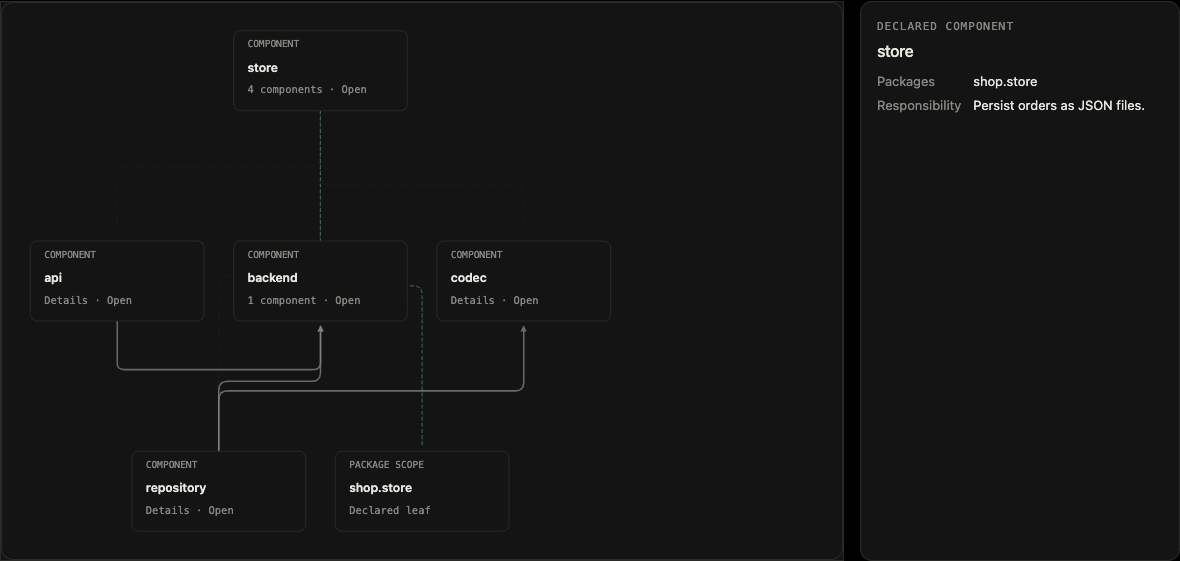
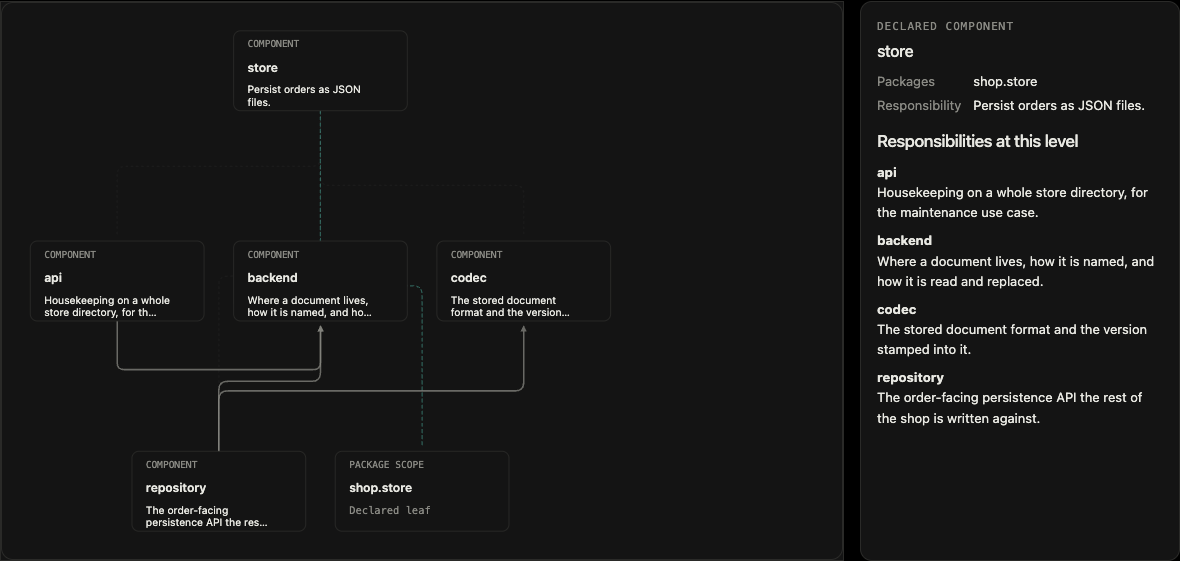
Show target responsibilities on diagram cards

diff --git a/src/archkeel/render/assets/flow.js b/src/archkeel/render/assets/flow.js
@@ -741,9 +741,31 @@
         : allowed
           ? `${allowed} allowed child${allowed === 1 ? "" : "ren"} · Open`
           : children.length ? "Details · Open" : "Declared leaf";
-      group.appendChild(count);
+      const responsibility = targetRecord?.details?.find((detail) =>
+        detail.label === "Responsibility")?.value;
+      if (["component", "module"].includes(type) && responsibility) {
+        const sentence = String(responsibility);
+        const breakAt = sentence.length > 24 ? sentence.lastIndexOf(" ", 24) : sentence.length;
+        const first = sentence.slice(0, breakAt > 0 ? breakAt : 24);
+        const rest = sentence.slice(first.length).trimStart();
+        const second = rest.length > 24 ? `${rest.slice(0, 23).trimEnd()}…` : rest;
+        count.setAttribute("class", "meta target-meta target-responsibility");
+        count.textContent = first;
+        group.appendChild(count);
+        if (second) {
+          const continuation = el("text", {
+            class: "meta target-responsibility", x: "16", y: "86",
+          });
+          continuation.textContent = second;
+          group.appendChild(continuation);
+        }
+      } else {
+        group.appendChild(count);
+      }
       const title = el("title");
-      title.textContent = `${type}: ${node.label}`;
+      title.textContent = responsibility
+        ? `${type}: ${node.label} — ${responsibility}`
+        : `${type}: ${node.label}`;
       group.appendChild(title);
       const open = () => {
         if (graph?.owner === node.id) {

diff --git a/src/archkeel/render/assets/archkeel-report.css b/src/archkeel/render/assets/archkeel-report.css
@@ -1028,6 +1028,10 @@ code {
   fill: var(--ck-muted);
   font: 12px var(--ck-font-mono);
 }
+.node .target-responsibility {
+  fill: var(--ck-text);
+  font: 12px var(--ck-font-sans);
+}
 .node .stereotype {
   fill: var(--ck-muted);
   font: 11px var(--ck-font-mono);

diff --git a/tests/test_target_diagram_acceptance.py b/tests/test_target_diagram_acceptance.py
@@ -196,8 +196,11 @@ def test_target_diagram_is_visible_and_drillable_without_filter_status(tmp_path:
                 page.locator(
                     '.target-node[data-target-node="COMP-STORE"] .target-meta'
                 ).text_content()
-                == "4 components · Open"
+                == "Persist orders as JSON"
             )
+            assert page.locator(
+                '.target-node[data-target-node="COMP-STORE"] .target-responsibility'
+            ).all_text_contents() == ["Persist orders as JSON", "files."]
             assert page.locator(".flow-filter-status").text_content().strip() != (
                 "No diagram filters active"
             )

diff --git a/docs/report-visual-system.md b/docs/report-visual-system.md
@@ -156,8 +156,9 @@ unless the check has already classified them as a failure.
   allowed layout children, and requirements; its edges are declarations, not import evidence or
   conformance claims. Diff lists violations, unknown evidence, unmapped observed modules, and
   declared targets absent from the observation. A missing target stays visible in Target and Diff.
-  Target also provides a searchable list of every declared component and module responsibility;
-  selecting one opens its diagram node. Folder grouping does not silently drop list entries.
+  Target cards preview each declared component or module responsibility. The inspector shows the
+  full sentence; a searchable list reaches every declaration. Folder grouping does not silently
+  drop list entries.
 - Never infer a symbol kind from a missing definition. A whole-module import is `module`, a star
   import is `star import`, and an unresolved named import is `unknown`, not `constant`.
 - Long lists of imported names and facade measurements use native disclosure controls. The

diff --git a/README.md b/README.md
@@ -320,7 +320,8 @@ Optionally declare exact Python files and one-sentence responsibilities in
 `declarations.modules` at the deepest existing contract. The Target view groups each declared
 Python file under the deepest uniquely matching component within its declaring scope, using
 configured roots and namespace. This is navigation, not ownership; ambiguous or unsupported paths
-remain unresolved. Diff shows declared files that are absent and observed files without a target.
+remain unresolved. Target cards preview the responsibility; select one for the full sentence.
+Diff shows declared files that are absent and observed files without a target.
 
 ![Target view drilled into a declared Python module and its responsibility](docs/assets/archkeel-module-target.png)
 
